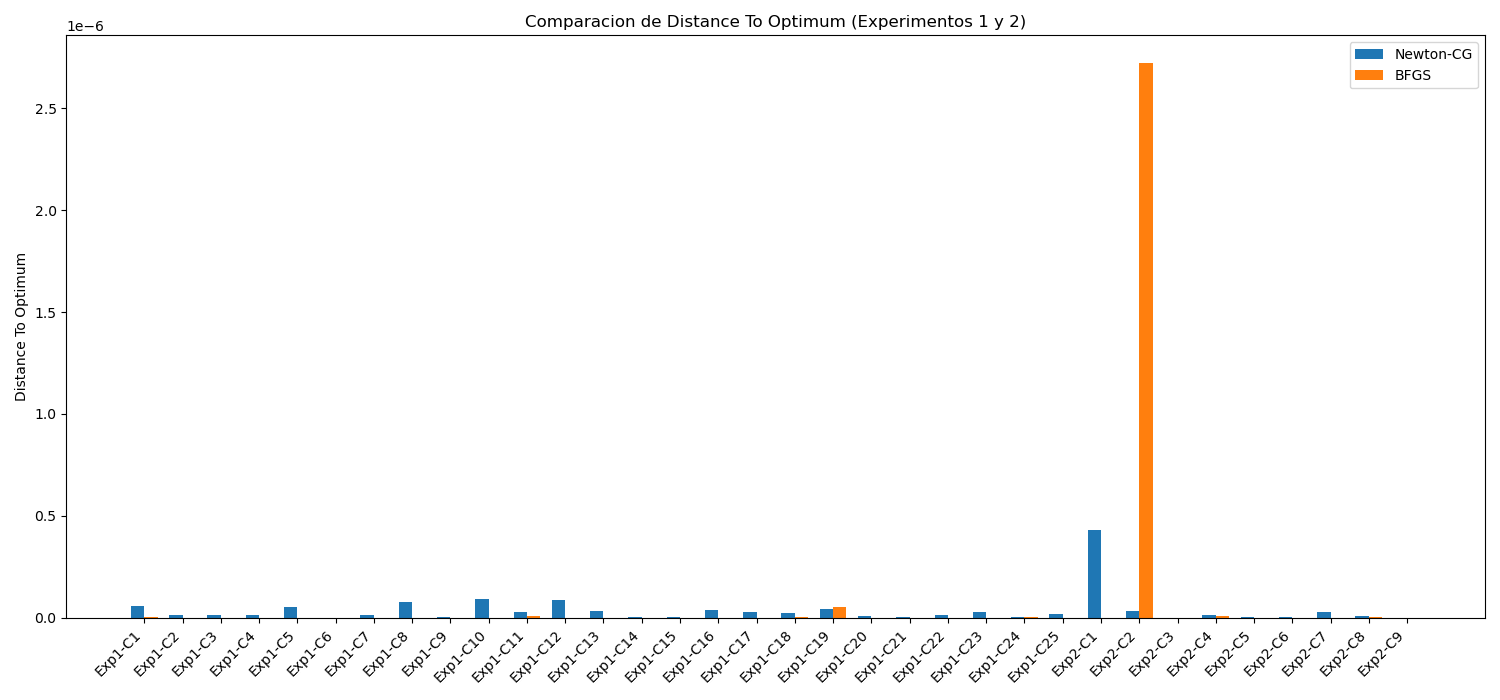
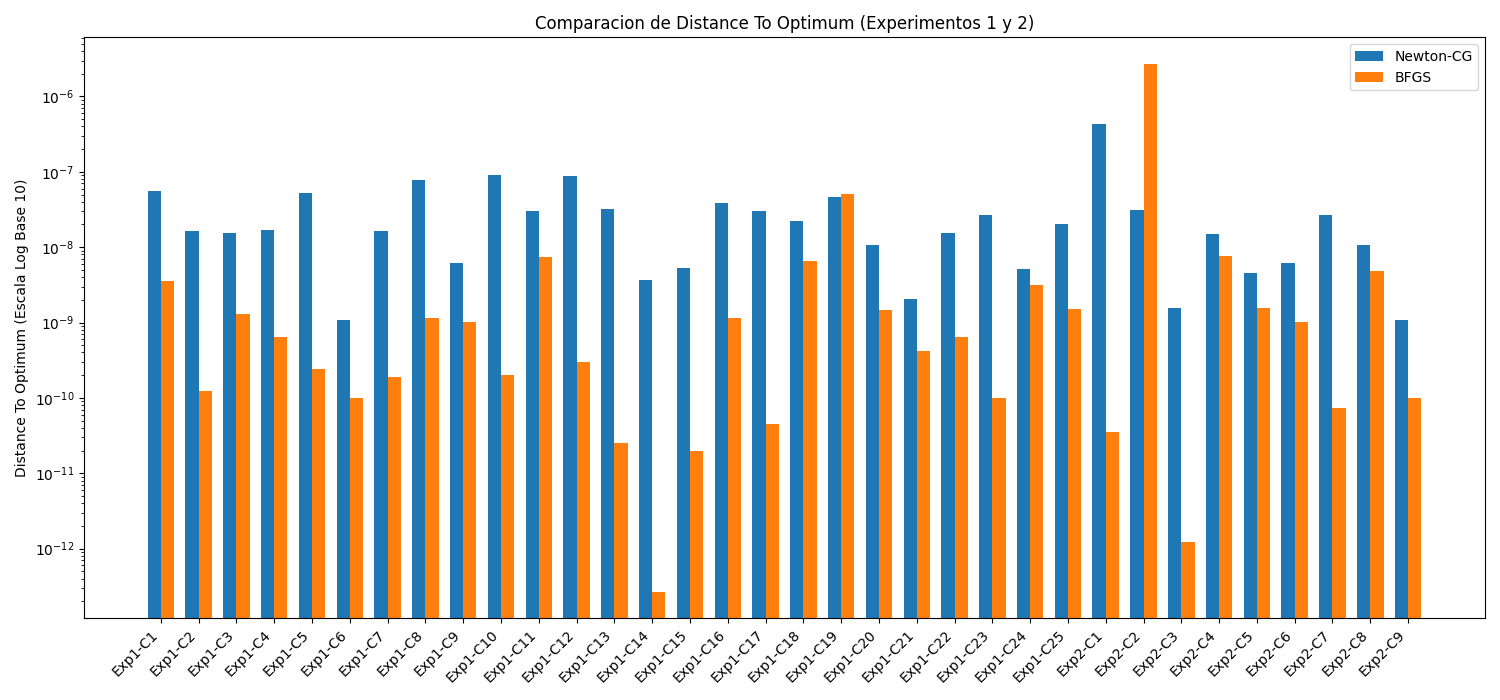
Change Informe

diff --git a/Implementation/plots/generate_plots.py b/Implementation/plots/generate_plots.py
@@ -38,7 +38,12 @@ def plot_combined_results(exp1_data, exp2_data):
         rects1 = plt.bar(x - width/2, newton_cg_data[metric], width, label='Newton-CG')
         rects2 = plt.bar(x + width/2, bfgs_data[metric], width, label='BFGS')
         
-        plt.ylabel(metric.replace('_', ' ').title())
+        if metric == 'distance_to_optimum':
+            plt.yscale('log', base=10)
+            plt.ylabel(f"{metric.replace('_', ' ').title()} (Escala Log Base 10)")
+        else:
+            plt.ylabel(metric.replace('_', ' ').title())
+        
         plt.title(f'Comparacion de {metric.replace("_", " ").title()} (Experimentos 1 y 2)')
         plt.xticks(x, config_labels, rotation=45, ha="right")
         plt.legend()
